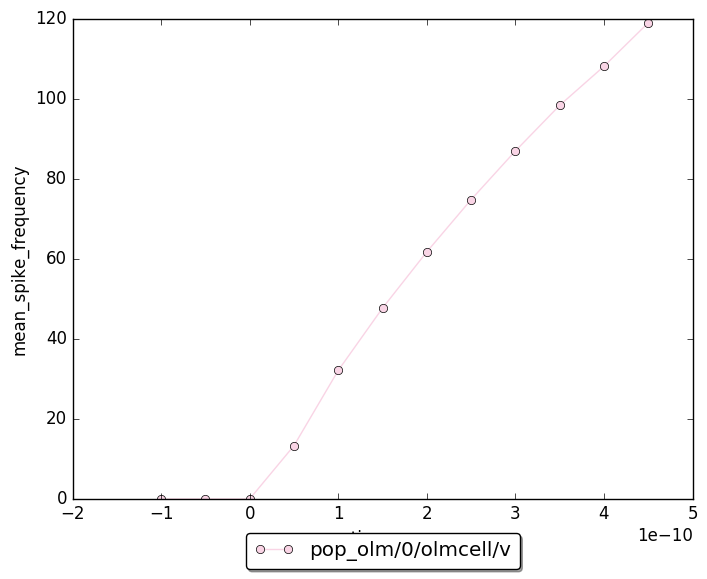
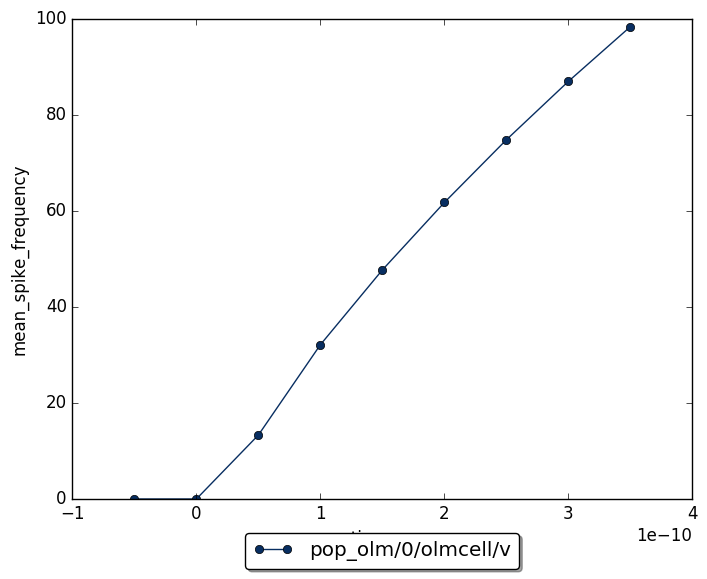
Cell info

diff --git a/NeuroML2/network/nmllite/info.html b/NeuroML2/network/nmllite/info.html
@@ -1,0 +1,112 @@
+<html><body>
+<table>
+<tr>
+  <td><b>sca</b></td>
+  <td><a href="mean_spike_frequency_sca.png">
+    <img alt="?" src="mean_spike_frequency_sca.png" height="180"/></a>
+  </td>
+  <td><a href="firing_rates_sca.png">
+    <img alt="?" src="firing_rates_sca.png" height="180"/></a>
+  </td>
+  <td><a href="heatmap_sca.png">
+    <img alt="?" src="heatmap_sca.png" height="180"/></a>
+  </td>
+<tr>
+<tr>
+  <td><b>olm</b></td>
+  <td><a href="mean_spike_frequency_olm.png">
+    <img alt="?" src="mean_spike_frequency_olm.png" height="180"/></a>
+  </td>
+  <td><a href="firing_rates_olm.png">
+    <img alt="?" src="firing_rates_olm.png" height="180"/></a>
+  </td>
+  <td><a href="heatmap_olm.png">
+    <img alt="?" src="heatmap_olm.png" height="180"/></a>
+  </td>
+<tr>
+<tr>
+  <td><b>pvbasket</b></td>
+  <td><a href="mean_spike_frequency_pvbasket.png">
+    <img alt="?" src="mean_spike_frequency_pvbasket.png" height="180"/></a>
+  </td>
+  <td><a href="firing_rates_pvbasket.png">
+    <img alt="?" src="firing_rates_pvbasket.png" height="180"/></a>
+  </td>
+  <td><a href="heatmap_pvbasket.png">
+    <img alt="?" src="heatmap_pvbasket.png" height="180"/></a>
+  </td>
+<tr>
+<tr>
+  <td><b>ivy</b></td>
+  <td><a href="mean_spike_frequency_ivy.png">
+    <img alt="?" src="mean_spike_frequency_ivy.png" height="180"/></a>
+  </td>
+  <td><a href="firing_rates_ivy.png">
+    <img alt="?" src="firing_rates_ivy.png" height="180"/></a>
+  </td>
+  <td><a href="heatmap_ivy.png">
+    <img alt="?" src="heatmap_ivy.png" height="180"/></a>
+  </td>
+<tr>
+<tr>
+  <td><b>ngf</b></td>
+  <td><a href="mean_spike_frequency_ngf.png">
+    <img alt="?" src="mean_spike_frequency_ngf.png" height="180"/></a>
+  </td>
+  <td><a href="firing_rates_ngf.png">
+    <img alt="?" src="firing_rates_ngf.png" height="180"/></a>
+  </td>
+  <td><a href="heatmap_ngf.png">
+    <img alt="?" src="heatmap_ngf.png" height="180"/></a>
+  </td>
+<tr>
+<tr>
+  <td><b>bistratified</b></td>
+  <td><a href="mean_spike_frequency_bistratified.png">
+    <img alt="?" src="mean_spike_frequency_bistratified.png" height="180"/></a>
+  </td>
+  <td><a href="firing_rates_bistratified.png">
+    <img alt="?" src="firing_rates_bistratified.png" height="180"/></a>
+  </td>
+  <td><a href="heatmap_bistratified.png">
+    <img alt="?" src="heatmap_bistratified.png" height="180"/></a>
+  </td>
+<tr>
+<tr>
+  <td><b>cck</b></td>
+  <td><a href="mean_spike_frequency_cck.png">
+    <img alt="?" src="mean_spike_frequency_cck.png" height="180"/></a>
+  </td>
+  <td><a href="firing_rates_cck.png">
+    <img alt="?" src="firing_rates_cck.png" height="180"/></a>
+  </td>
+  <td><a href="heatmap_cck.png">
+    <img alt="?" src="heatmap_cck.png" height="180"/></a>
+  </td>
+<tr>
+<tr>
+  <td><b>axoaxonic</b></td>
+  <td><a href="mean_spike_frequency_axoaxonic.png">
+    <img alt="?" src="mean_spike_frequency_axoaxonic.png" height="180"/></a>
+  </td>
+  <td><a href="firing_rates_axoaxonic.png">
+    <img alt="?" src="firing_rates_axoaxonic.png" height="180"/></a>
+  </td>
+  <td><a href="heatmap_axoaxonic.png">
+    <img alt="?" src="heatmap_axoaxonic.png" height="180"/></a>
+  </td>
+<tr>
+<tr>
+  <td><b>poolosyn</b></td>
+  <td><a href="mean_spike_frequency_poolosyn.png">
+    <img alt="?" src="mean_spike_frequency_poolosyn.png" height="180"/></a>
+  </td>
+  <td><a href="firing_rates_poolosyn.png">
+    <img alt="?" src="firing_rates_poolosyn.png" height="180"/></a>
+  </td>
+  <td><a href="heatmap_poolosyn.png">
+    <img alt="?" src="heatmap_poolosyn.png" height="180"/></a>
+  </td>
+<tr>
+
+</body></html>

diff --git a/NeuroML2/network/nmllite/Sweep.py b/NeuroML2/network/nmllite/Sweep.py
@@ -15,7 +15,11 @@ if __name__ == '__main__':
 
     if '-all' in sys.argv:
         
-        fixed = {'dt':0.001, duration:700}
+        print('Generating all plots')
+        save_fig_dir = './'
+        html = '<table>\n'
+        
+        fixed = {'dt':0.001, 'duration':700}
 
 
         vary = {'stim_amp':['%spA'%(i) for i in xrange(-50,400,50)]}
@@ -25,29 +29,56 @@ if __name__ == '__main__':
         for type in colors:
             if type!='ec' and type !='ca3':
 
-                nmllr = NeuroMLliteRunner('Sim_IClamp_%s.json'%type,
-                                          simulator='jNeuroML_NEURON')
+                run = True
+                #run = False
+                
+                if run:
+                
+                    nmllr = NeuroMLliteRunner('Sim_IClamp_%s.json'%type,
+                                              simulator='jNeuroML_NEURON')
+                    ps = ParameterSweep(nmllr, 
+                                        vary, 
+                                        fixed,
+                                        num_parallel_runs=16,
+                                      save_plot_all_to='firing_rates_%s.png'%type,
+                                      heatmap_all=True,
+                                      save_heatmap_to='heatmap_%s.png'%type,
+                                        plot_all=True, 
+                                        show_plot_already=False)
 
-                ps = ParameterSweep(nmllr, 
-                                    vary, 
-                                    fixed,
-                                    plot_all=True, 
-                                    heatmap_all=True,
-                                    show_plot_already=False)
+                    report = ps.run()
 
-                report = ps.run()
-
-                #ps.plotLines('stim_amp','average_last_1percent',save_figure_to='average_last_1percent_%s.png'%type)
-                ps.plotLines('stim_amp','mean_spike_frequency',save_figure_to='mean_spike_frequency_%s.png'%type)
+                    #ps.plotLines('stim_amp','average_last_1percent',save_figure_to='average_last_1percent_%s.png'%type)
+                    ps.plotLines('stim_amp','mean_spike_frequency',save_figure_to='mean_spike_frequency_%s.png'%type)
+                
+                
+                html+='<tr>\n'
+                html+='  <td><b>'+type+'</b></td>\n'
+                html+='  <td><a href="mean_spike_frequency_%s.png'%type+'">\n'
+                html+='    <img alt="?" src="mean_spike_frequency_%s.png'%type+'" height="180"/></a>\n'
+                html+='  </td>\n'
+                html+='  <td><a href="firing_rates_%s.png'%type+'">\n'
+                html+='    <img alt="?" src="firing_rates_%s.png'%type+'" height="180"/></a>\n'
+                html+='  </td>\n'
+                html+='  <td><a href="heatmap_%s.png'%type+'">\n'
+                html+='    <img alt="?" src="heatmap_%s.png'%type+'" height="180"/></a>\n'
+                html+='  </td>\n'
+                html+='<tr>\n'
 
         import matplotlib.pyplot as plt
         if not '-nogui' in sys.argv:
             print("Showing plots")
             plt.show()
+            
+            
+        with open(save_fig_dir+'info.html','w') as f:
+            f.write('<html><body>\n%s\n</body></html>'%html)
+        with open(save_fig_dir+'README.md','w') as f2:
+            f2.write('### CA1 cell summary \n%s'%(html.replace('.html','.md')))
         
     else:
         
-        fixed = {'dt':0.001, duration:700}
+        fixed = {'dt':0.01, 'duration':700}
 
         quick = False
         #quick=True
@@ -78,7 +109,9 @@ if __name__ == '__main__':
         ps = ParameterSweep(nmllr, vary, fixed,
                             num_parallel_runs=16,
                                   plot_all=True, 
+                                  save_plot_all_to='firing_rates_%s.png'%type,
                                   heatmap_all=True,
+                                  save_heatmap_to='heatmap_%s.png'%type,
                                   show_plot_already=False)
 
         report = ps.run()

diff --git a/NeuroML2/network/nmllite/README.md b/NeuroML2/network/nmllite/README.md
@@ -1,0 +1,110 @@
+### CA1 cell summary 
+<table>
+<tr>
+  <td><b>sca</b></td>
+  <td><a href="mean_spike_frequency_sca.png">
+    <img alt="?" src="mean_spike_frequency_sca.png" height="180"/></a>
+  </td>
+  <td><a href="firing_rates_sca.png">
+    <img alt="?" src="firing_rates_sca.png" height="180"/></a>
+  </td>
+  <td><a href="heatmap_sca.png">
+    <img alt="?" src="heatmap_sca.png" height="180"/></a>
+  </td>
+<tr>
+<tr>
+  <td><b>olm</b></td>
+  <td><a href="mean_spike_frequency_olm.png">
+    <img alt="?" src="mean_spike_frequency_olm.png" height="180"/></a>
+  </td>
+  <td><a href="firing_rates_olm.png">
+    <img alt="?" src="firing_rates_olm.png" height="180"/></a>
+  </td>
+  <td><a href="heatmap_olm.png">
+    <img alt="?" src="heatmap_olm.png" height="180"/></a>
+  </td>
+<tr>
+<tr>
+  <td><b>pvbasket</b></td>
+  <td><a href="mean_spike_frequency_pvbasket.png">
+    <img alt="?" src="mean_spike_frequency_pvbasket.png" height="180"/></a>
+  </td>
+  <td><a href="firing_rates_pvbasket.png">
+    <img alt="?" src="firing_rates_pvbasket.png" height="180"/></a>
+  </td>
+  <td><a href="heatmap_pvbasket.png">
+    <img alt="?" src="heatmap_pvbasket.png" height="180"/></a>
+  </td>
+<tr>
+<tr>
+  <td><b>ivy</b></td>
+  <td><a href="mean_spike_frequency_ivy.png">
+    <img alt="?" src="mean_spike_frequency_ivy.png" height="180"/></a>
+  </td>
+  <td><a href="firing_rates_ivy.png">
+    <img alt="?" src="firing_rates_ivy.png" height="180"/></a>
+  </td>
+  <td><a href="heatmap_ivy.png">
+    <img alt="?" src="heatmap_ivy.png" height="180"/></a>
+  </td>
+<tr>
+<tr>
+  <td><b>ngf</b></td>
+  <td><a href="mean_spike_frequency_ngf.png">
+    <img alt="?" src="mean_spike_frequency_ngf.png" height="180"/></a>
+  </td>
+  <td><a href="firing_rates_ngf.png">
+    <img alt="?" src="firing_rates_ngf.png" height="180"/></a>
+  </td>
+  <td><a href="heatmap_ngf.png">
+    <img alt="?" src="heatmap_ngf.png" height="180"/></a>
+  </td>
+<tr>
+<tr>
+  <td><b>bistratified</b></td>
+  <td><a href="mean_spike_frequency_bistratified.png">
+    <img alt="?" src="mean_spike_frequency_bistratified.png" height="180"/></a>
+  </td>
+  <td><a href="firing_rates_bistratified.png">
+    <img alt="?" src="firing_rates_bistratified.png" height="180"/></a>
+  </td>
+  <td><a href="heatmap_bistratified.png">
+    <img alt="?" src="heatmap_bistratified.png" height="180"/></a>
+  </td>
+<tr>
+<tr>
+  <td><b>cck</b></td>
+  <td><a href="mean_spike_frequency_cck.png">
+    <img alt="?" src="mean_spike_frequency_cck.png" height="180"/></a>
+  </td>
+  <td><a href="firing_rates_cck.png">
+    <img alt="?" src="firing_rates_cck.png" height="180"/></a>
+  </td>
+  <td><a href="heatmap_cck.png">
+    <img alt="?" src="heatmap_cck.png" height="180"/></a>
+  </td>
+<tr>
+<tr>
+  <td><b>axoaxonic</b></td>
+  <td><a href="mean_spike_frequency_axoaxonic.png">
+    <img alt="?" src="mean_spike_frequency_axoaxonic.png" height="180"/></a>
+  </td>
+  <td><a href="firing_rates_axoaxonic.png">
+    <img alt="?" src="firing_rates_axoaxonic.png" height="180"/></a>
+  </td>
+  <td><a href="heatmap_axoaxonic.png">
+    <img alt="?" src="heatmap_axoaxonic.png" height="180"/></a>
+  </td>
+<tr>
+<tr>
+  <td><b>poolosyn</b></td>
+  <td><a href="mean_spike_frequency_poolosyn.png">
+    <img alt="?" src="mean_spike_frequency_poolosyn.png" height="180"/></a>
+  </td>
+  <td><a href="firing_rates_poolosyn.png">
+    <img alt="?" src="firing_rates_poolosyn.png" height="180"/></a>
+  </td>
+  <td><a href="heatmap_poolosyn.png">
+    <img alt="?" src="heatmap_poolosyn.png" height="180"/></a>
+  </td>
+<tr>
